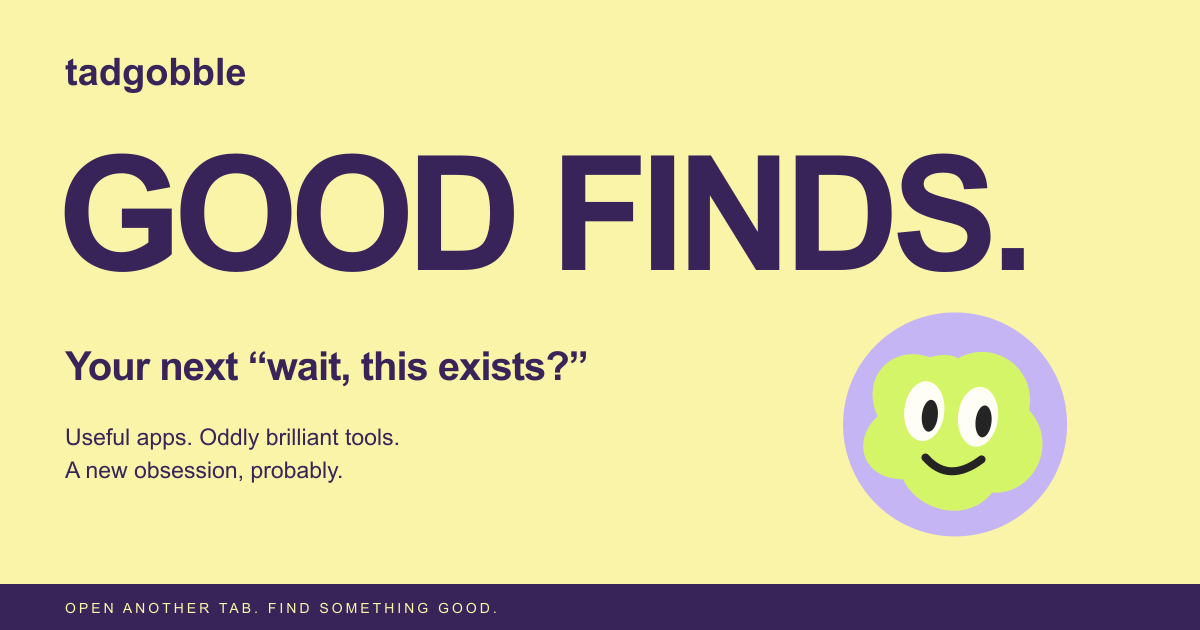
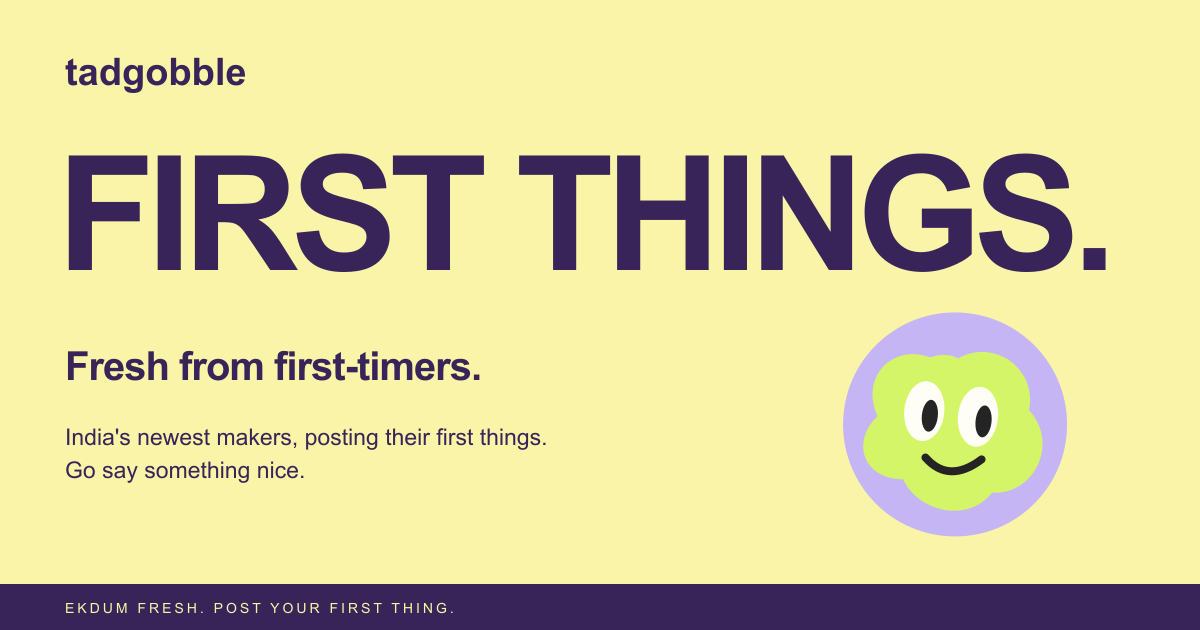
Bring the first-timers copy and a little Hinglish to the cream look

diff --git a/components/launch.jsx b/components/launch.jsx
@@ -217,8 +217,8 @@ export default function Launch({ products }) {
           </a>
         </nav>
         <div className="launch-header-actions">
-          <a className="header-submit" href="/discover?submit=1" aria-label="Share your work">
-            Made something? <Plus size={18} />
+          <a className="header-submit" href="/discover?submit=1" aria-label="Post your thing">
+            Post your thing <Plus size={18} />
           </a>
           <button
             className="launch-menu-toggle"
@@ -233,11 +233,11 @@ export default function Launch({ products }) {
       <main>
         <section className="poster-hero" ref={hero}>
           <div className="poster-topline">
-            <span>A very good corner of the internet.</span>
-            <span>Curiosity looks good on you.</span>
+            <span>India's newest makers live here.</span>
+            <span>Go say something nice.</span>
           </div>
           <h1 className="poster-title">
-            <span>GOOD</span> <span>FINDS.</span>
+            <span>FIRST</span> <span>THINGS.</span>
           </h1>
           <div className="poster-bottom">
             <div className="poster-intro">
@@ -248,10 +248,10 @@ export default function Launch({ products }) {
                   : 'The menu opens soon'}
               </span>
               <h2>
-                Small wonders, <br />
-                made by <span className="intro-mark">real people.</span>
+                Fresh from <br />
+                <span className="intro-mark">first-timers.</span>
               </h2>
-              <p>Art, design and oddly brilliant apps, hand-picked and served one at a time.</p>
+              <p>India's newest makers, posting their first things. Art, design, photos and useful apps.</p>
               <div className="intro-actions">
                 {products.length ? (
                   <button
@@ -289,7 +289,7 @@ export default function Launch({ products }) {
                   ref={snack}
                   className="gobble-snack"
                   href={featured ? `/product/${featured.slug}` : '/discover?submit=1'}
-                  aria-label={featured ? `Preview ${featured.name}` : 'Share your work with Gobble'}
+                  aria-label={featured ? `Preview ${featured.name}` : 'Post your thing'}
                   onClick={(event) => {
                     if (!featured) return;
                     event.preventDefault();
@@ -302,7 +302,7 @@ export default function Launch({ products }) {
               </div>
               <span className="boop-caption" id="gobble-caption" role="status">
                 {boops
-                  ? ['excellent boop.', 'okay, we’re besties.', 'zero thoughts. just snacks.'][
+                  ? ['excellent boop.', 'okay, we’re besties.', 'bas. ek aur snack.'][
                       (boops - 1) % 3
                     ]
                   : 'tiny guy. concerning appetite.'}
@@ -319,9 +319,9 @@ export default function Launch({ products }) {
           </div>
           <div className="poster-foot">
             <a href="#fresh-picks">
-              Good things below <ArrowDown size={16} />
+              Fresh stuff below <ArrowDown size={16} />
             </a>
-            <span>Independent finds. Shared appetites.</span>
+            <span>New makers. Kind comments.</span>
             <button
               className="motion-control"
               aria-pressed={!motion}
@@ -340,9 +340,9 @@ export default function Launch({ products }) {
             </button>
           </div>
         </section>
-        <div className="discovery-ribbon" aria-label="Open another tab. Find something good.">
+        <div className="discovery-ribbon" aria-label="Ekdum fresh. Post your first thing.">
           <div className="ribbon-type" aria-hidden="true">
-            OPEN ANOTHER TAB. <Asterisk /> FIND SOMETHING GOOD. <Asterisk /> OPEN ANOTHER TAB.
+            EKDUM FRESH. <Asterisk /> POST YOUR FIRST THING. <Asterisk /> EKDUM FRESH.
           </div>
         </div>
         <ProductShowcase products={products} onPeek={openPreview} motion={motion} />
@@ -369,7 +369,7 @@ export default function Launch({ products }) {
                 submission so curious people can discover your work and talk about it.
               </p>
               <a className="launch-button plum-button" href="/discover?submit=1">
-                Put your thing on the menu <ArrowUpRight size={20} />
+                Post your thing <ArrowUpRight size={20} />
               </a>
             </div>
             <div className="maker-stamp">
@@ -386,7 +386,7 @@ export default function Launch({ products }) {
       <footer className="launch-footer">
         <div className="footer-intro">
           <p>
-            Good finds.
+            Fresh finds.
             <br />
             Questionable screen time.
           </p>

diff --git a/components/platform.jsx b/components/platform.jsx
@@ -256,7 +256,7 @@ export default function Platform({ initialView = 'discover', initialSlug = null 
               )}
             </button>
             <button className="mobile-share-work" onClick={() => actionModal('submit')}>
-              <Plus size={15} /> Share your work
+              <Plus size={15} /> Post your thing
             </button>
           </nav>
           <div className="header-actions">
@@ -265,7 +265,7 @@ export default function Platform({ initialView = 'discover', initialSlug = null 
               className="button button-dark submit-nav"
               onClick={() => actionModal('submit')}
             >
-              <Plus size={16} /> Share your work
+              <Plus size={16} /> Post your thing
             </button>
             {user ? (
               <button
@@ -486,7 +486,7 @@ export default function Platform({ initialView = 'discover', initialSlug = null 
                 className="button button-dark"
                 onClick={() => actionModal('submit')}
               >
-                Share your work <ArrowUpRight size={17} />
+                Post your thing <ArrowUpRight size={17} />
               </button>
             </section>
             <div className="editorial-note">

diff --git a/components/creator-pages.jsx b/components/creator-pages.jsx
@@ -333,7 +333,7 @@ export default function CreatorPage({ mode = 'profile', username: providedUserna
               </div>
               <a className="button button-dark" href="/discover?submit=1">
                 <Plus size={17} />
-                Share something
+                Post your thing
               </a>
             </section>
             <div className="work-toolbar">
@@ -435,7 +435,7 @@ export default function CreatorPage({ mode = 'profile', username: providedUserna
                 </p>
                 {!data?.products.length && (
                   <a href="/discover?submit=1" className="button button-dark">
-                    Share your work
+                    Post your thing
                   </a>
                 )}
               </div>

diff --git a/components/product-showcase.jsx b/components/product-showcase.jsx
@@ -296,7 +296,7 @@ export default function ProductShowcase({ products, onPeek, motion = true }) {
           <p>
             Art, design, and useful little apps.
             <br />
-            Good things. Real people behind them.
+            First things. Real makers behind them.
           </p>
           {products.length > 0 && (
             <div className="menu-intro-actions">
@@ -433,7 +433,7 @@ export default function ProductShowcase({ products, onPeek, motion = true }) {
               place on the menu.
             </p>
             <a className="launch-button plum-button" href="/discover?submit=1">
-              Share your work <Plus size={18} />
+              Post your thing <Plus size={18} />
             </a>
           </div>
         </div>

diff --git a/app/launch.css b/app/launch.css
@@ -139,7 +139,7 @@
 .poster-title {
   display: flex;
   justify-content: space-between;
-  font-size: clamp(70px, 16.7vw, 320px);
+  font-size: clamp(64px, 15.6vw, 300px);
   line-height: 0.83;
   font-weight: 800;
   letter-spacing: -0.04em;
@@ -1585,7 +1585,7 @@
     font-size: 11px;
   }
   .poster-title {
-    font-size: 16.1vw;
+    font-size: 14.6vw;
   }
   .poster-bottom {
     grid-template-columns: 1fr 1.5fr;
@@ -1770,7 +1770,7 @@
     display: none;
   }
   .poster-title {
-    font-size: 16.1vw;
+    font-size: 14.6vw;
     margin-right: 0;
     padding-bottom: 15px;
     letter-spacing: -0.04em;
